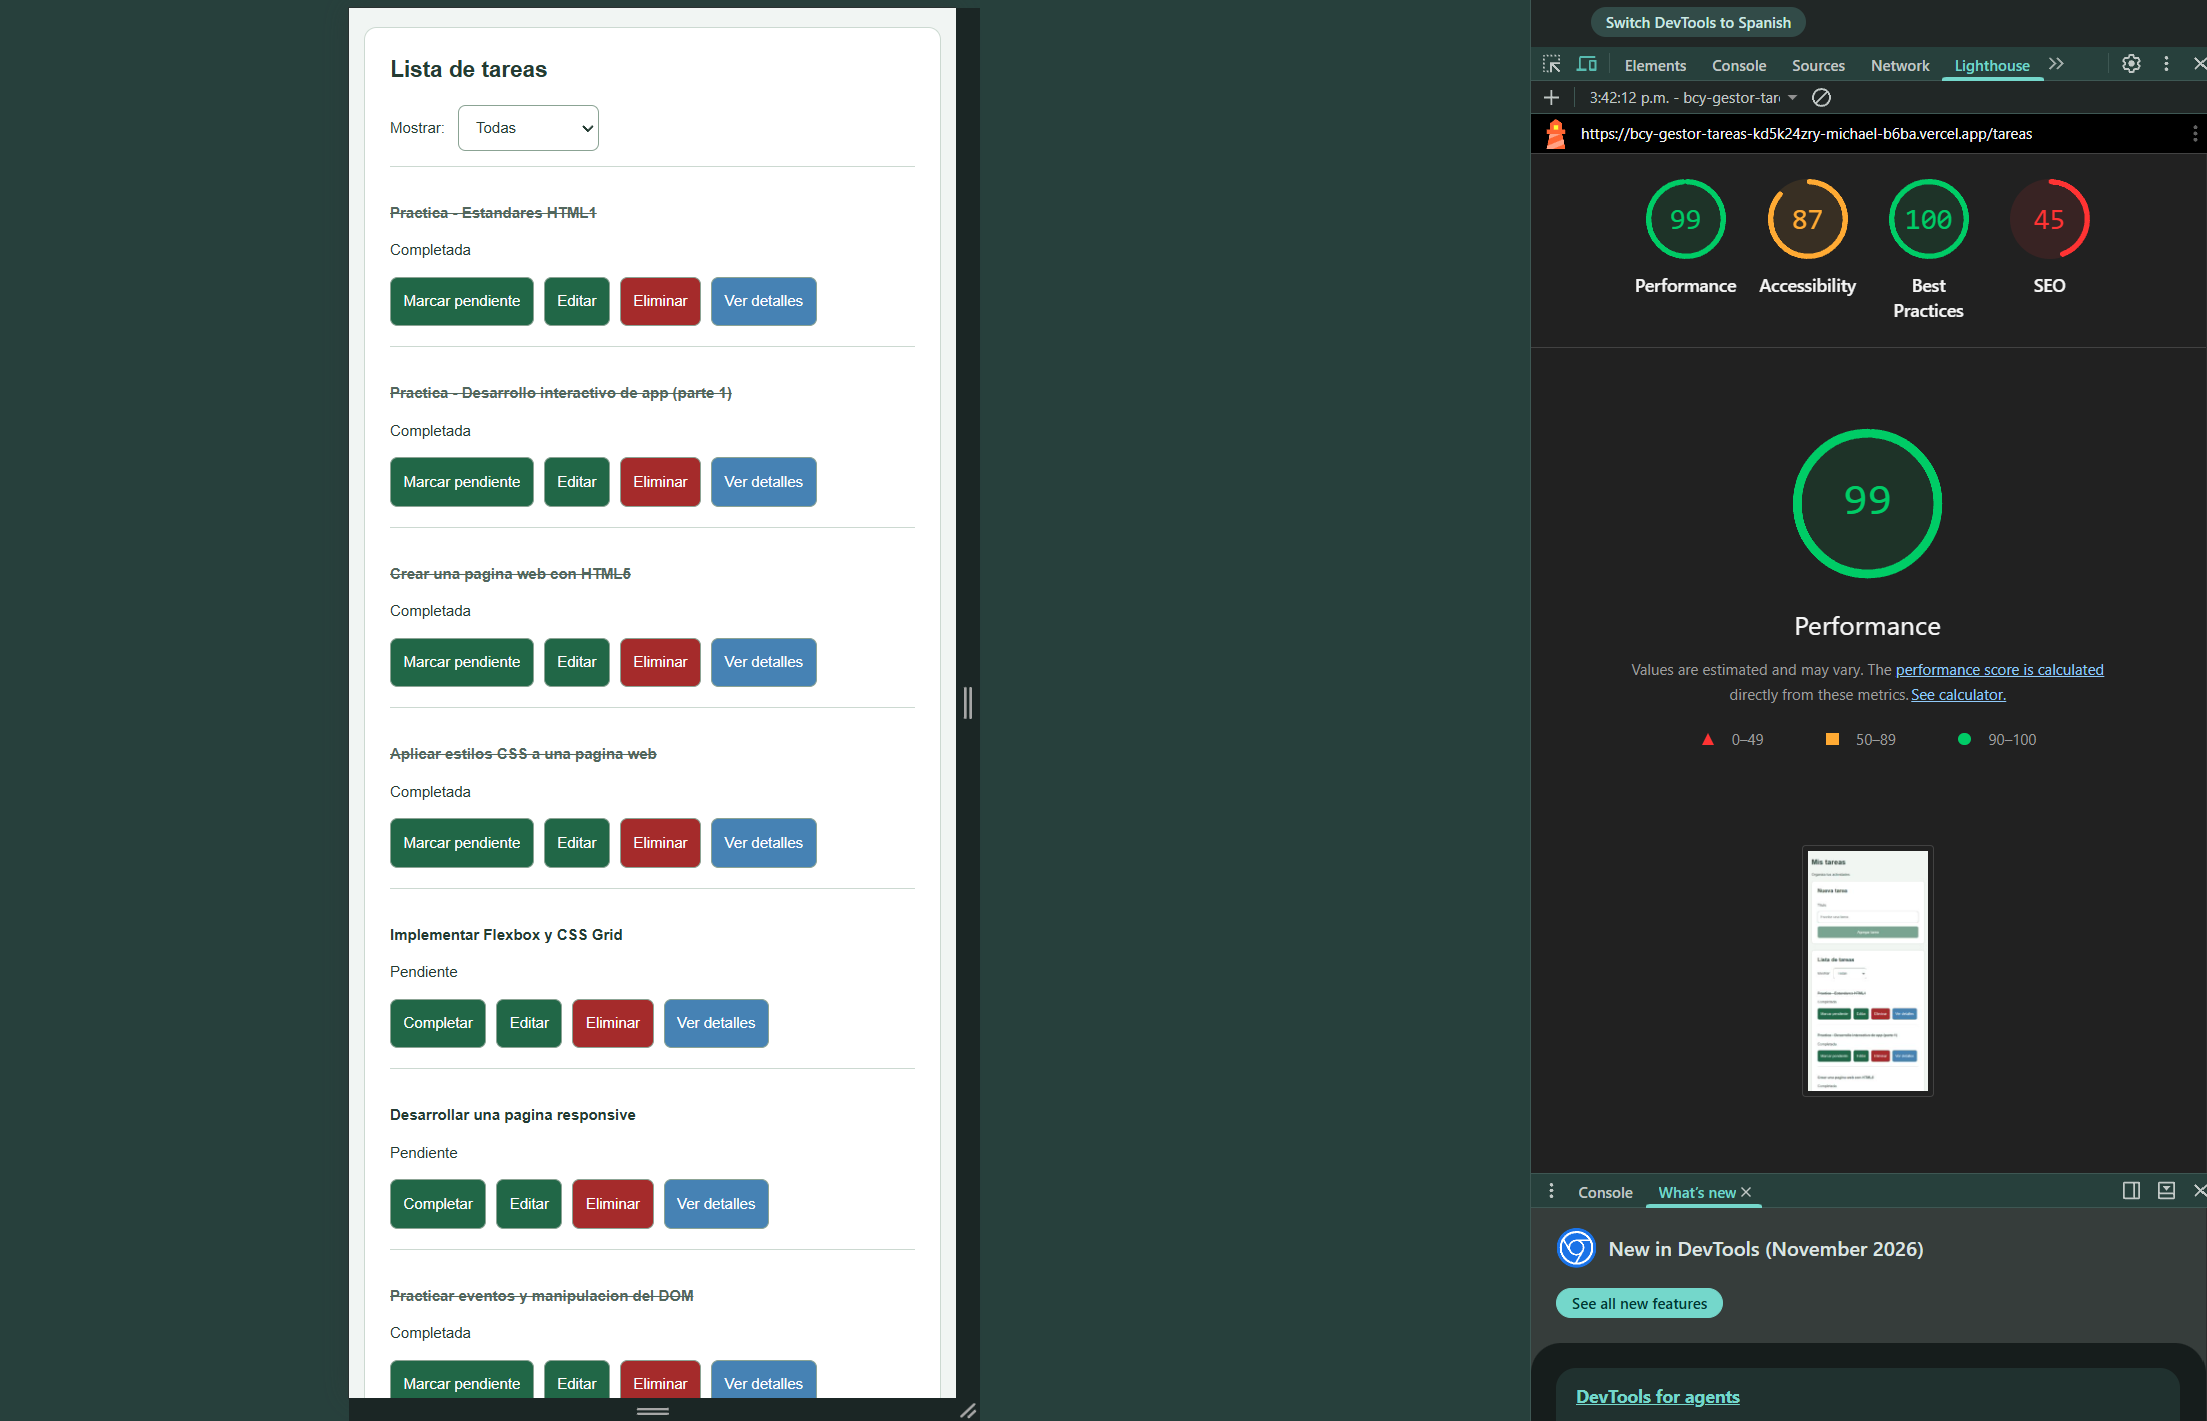
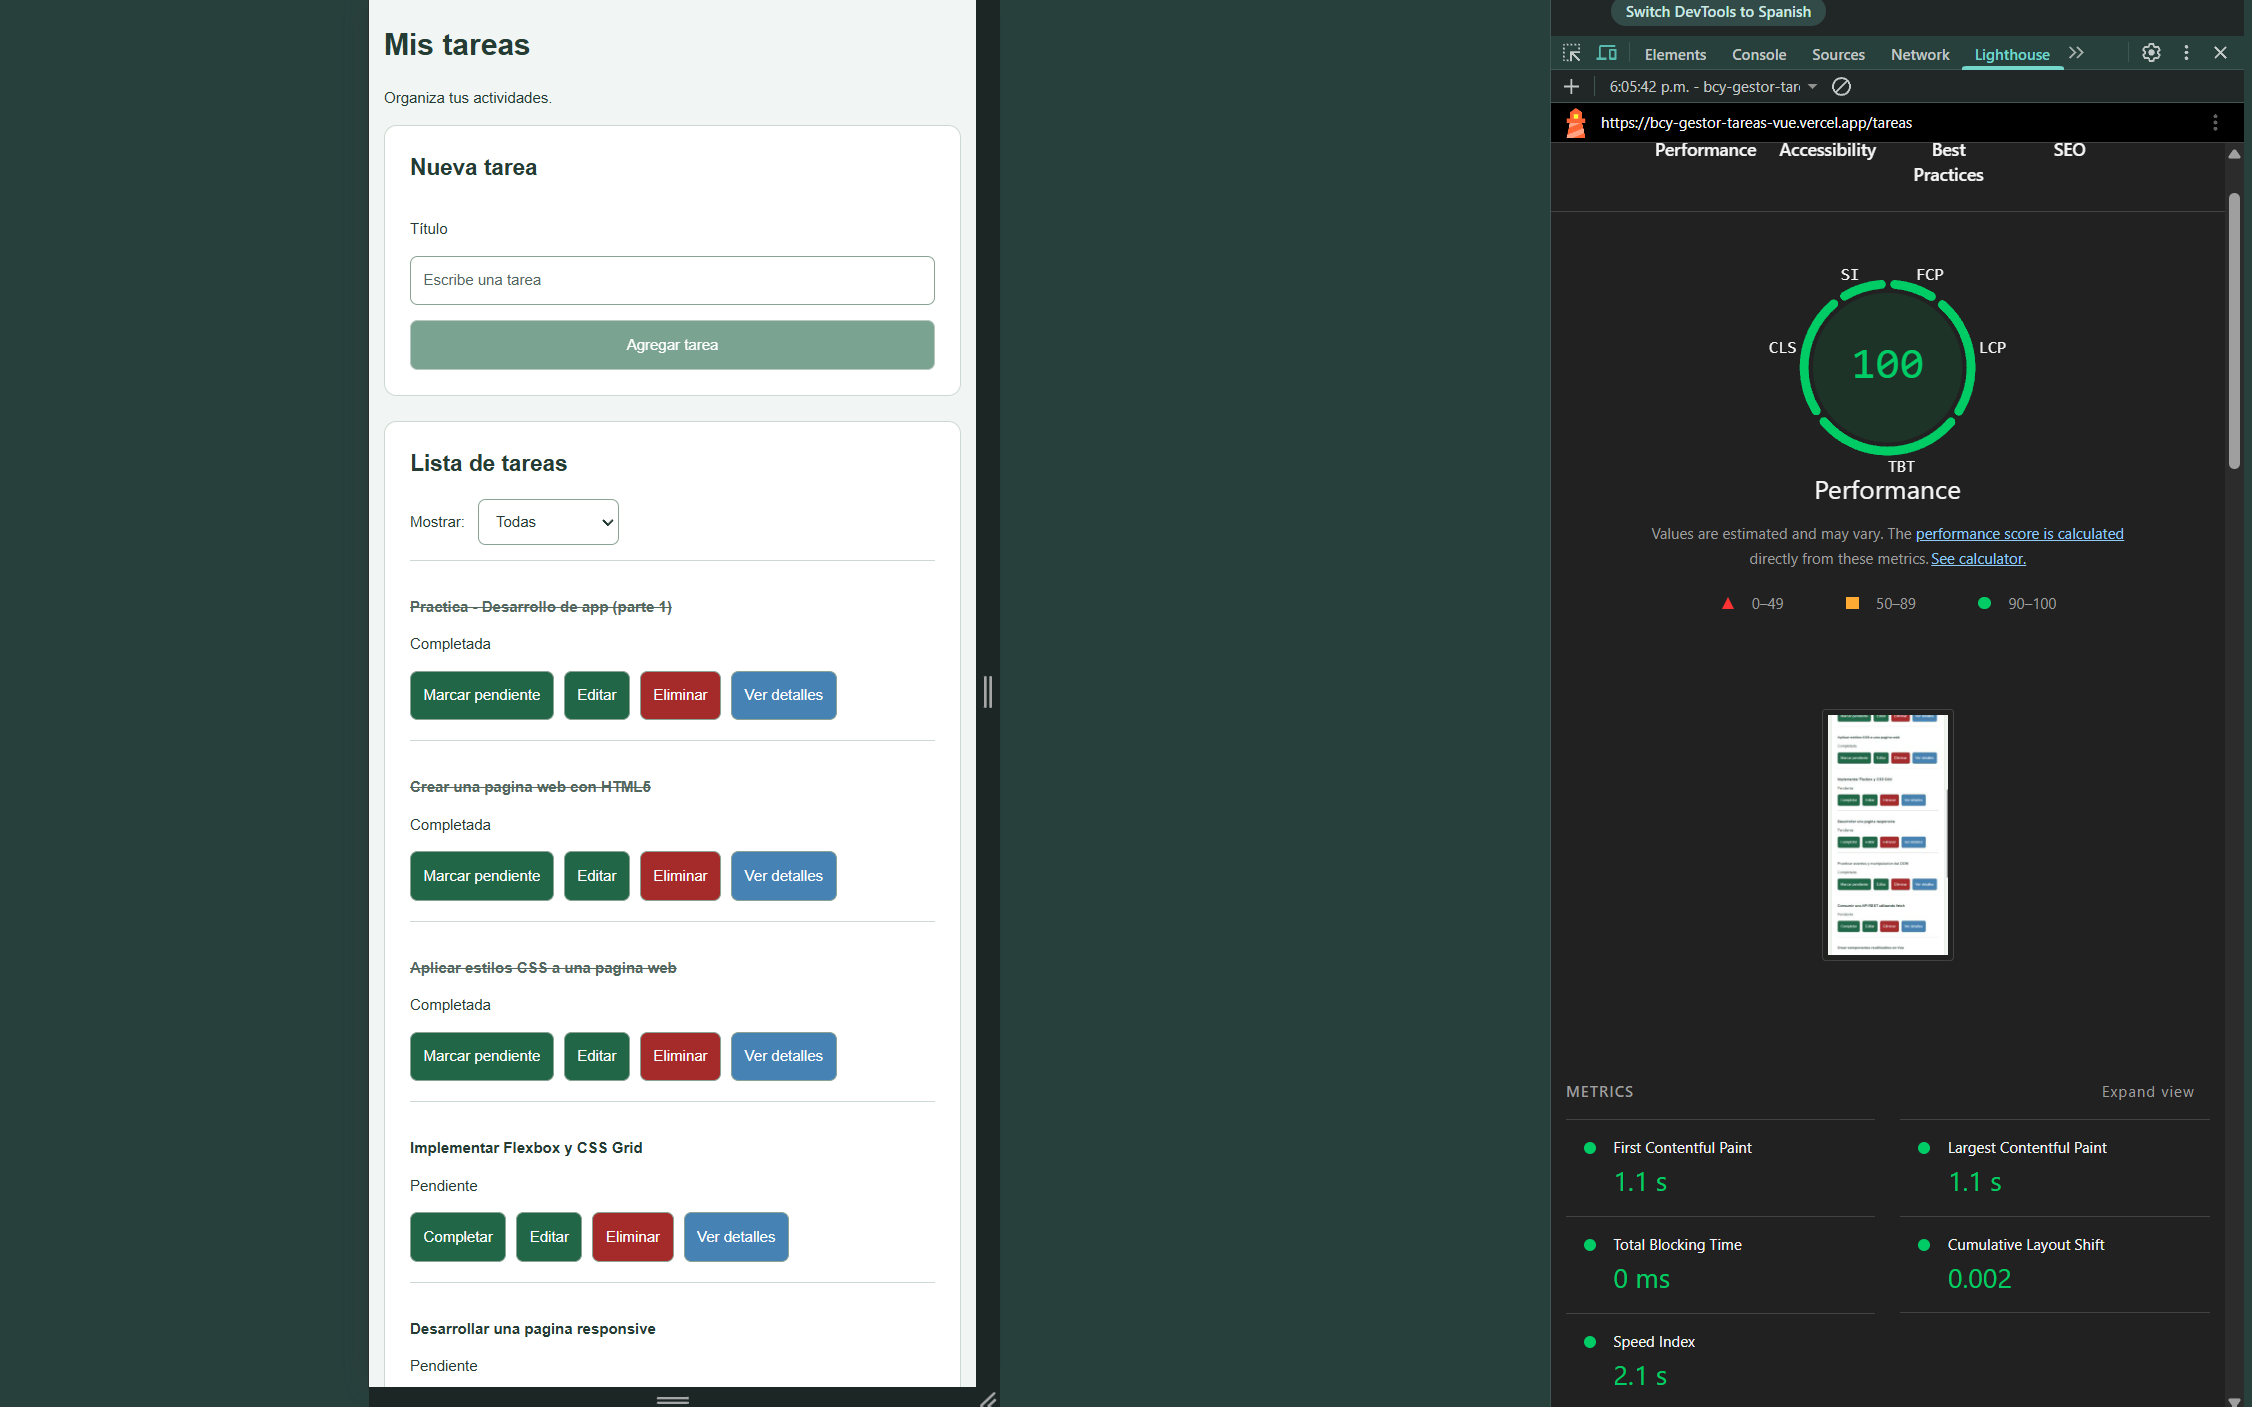
finalizar investigacion

Changed region(s): [[0.6778, 0.0, 1.0, 1.0], [0.1541, 0.0, 0.4314, 1.0]]

diff --git a/docs/investigacion.md b/docs/investigacion.md
@@ -785,7 +785,6 @@ Para solucionarlo creamos una API REST en la nube usando **MockAPI.io** con el r
 
 ```javascript
 const API_BASE = import.meta.env.VITE_API_URL || "http://localhost:3000";
-```
 
 ### Funcionamiento entre entorno local y nube (`.env`)
 
@@ -837,7 +836,7 @@ Desplegamos la versión final en **Vercel** mediante `npx.cmd vercel --prod`. La
 - **URL del despliegue en producción:** [https://bcy-gestor-tareas-e5348osux-michael-b6ba.vercel.app/tareas](https://bcy-gestor-tareas-e5348osux-michael-b6ba.vercel.app/tareas)
 - **Endpoint de la API en la nube (MockAPI):** [https://6af0c20a11a6aa866e7fbf30.mockapi.io/api/v1/tareas](https://6af0c20a11a6aa866e7fbf30.mockapi.io/api/v1/tareas)
 
-Una vez comprobadas todas las operaciones CRUD en producción con las 12 tareas oficiales, realizamos la auditoría de **Lighthouse** desde Google Chrome DevTools.
+Una vez comprobadas todas las operaciones CRUD en producción con las 12 tareas oficiales, realizamos la auditoría de **Lighthouse** desde Google Chrome DevTools en modo incógnito sobre la URL pública.
 
 ### Evidencia de Lighthouse en producción
 
@@ -850,8 +849,8 @@ En la siguiente tabla se resumen todas las mediciones obtenidas del proyecto:
 | Métrica | Resultado | Detalle |
 |---|---|---|
 | **Tiempo de configuración inicial** | 24 minutos | Creación con Vite, dependencias y estructura inicial |
-| **Horas totales del grupo** | [EJ: 18 horas] | Ariel: [X] h, Mateo: [X] h, Michael: [X] h |
-| **Dificultad percibida (1–5)** | [EJ: 3.3 / 5] | Promedio grupal (Ariel: [X], Mateo: [X], Michael: [X]) |
+| **Horas totales del grupo** | 18 horas | Suma de trabajo grupal (Ariel: 6 h, Mateo: 6 h, Michael: 6 h) |
+| **Dificultad percibida (1–5)** | 3.0 / 5 | Promedio grupal de valoración técnica |
 | **Archivos en `src/` (`npx cloc src`)** | 13 archivos | 7 Vuejs Component, 5 JavaScript y 1 CSS |
 | **Líneas de código reales (`cloc` code)** | 630 líneas | 250 en Vue, 223 en JS y 157 en CSS |
 | **Líneas en blanco y comentarios (`cloc`)** | 128 en blanco / 0 comentarios | Total de 758 líneas físicas en `src/` |
@@ -861,10 +860,10 @@ En la siguiente tabla se resumen todas las mediciones obtenidas del proyecto:
 | **Tamaño del JS (`dist/assets/*.js`)** | 103.82 kB (gzip: 39.96 kB) | Vue 3, Vue Router, Pinia y lógica de la app |
 | **Tamaño real de la carpeta `dist/`** | 108.04 kB (110,638 bytes) | Peso total de los 5 archivos generados en `dist/` |
 | **Pruebas unitarias (Vitest)** | 3 passed (1.26 s) | 100% de pruebas aprobadas en `App.spec.js` |
-| **Lighthouse - Performance** | 99 / 100 | Carga en producción sobre Vercel con las 12 tareas |
+| **Lighthouse - Performance** | 100 / 100 | Carga instantánea (FCP: 1.1 s, LCP: 1.1 s, TBT: 0 ms) |
 | **Lighthouse - Accessibility** | 87 / 100 | Botones, formularios y estructura accesible |
 | **Lighthouse - Best Practices** | 100 / 100 | Uso de HTTPS y buenas prácticas web |
-| **Lighthouse - SEO** | 45 / 100 | Aplicación SPA enfocada en gestión interna |
+| **Lighthouse - SEO** | 82 / 100 | Buenas prácticas de indexación y meta etiquetas en SPA |
 
 # Declaración de uso de Inteligencia Artificial
 
